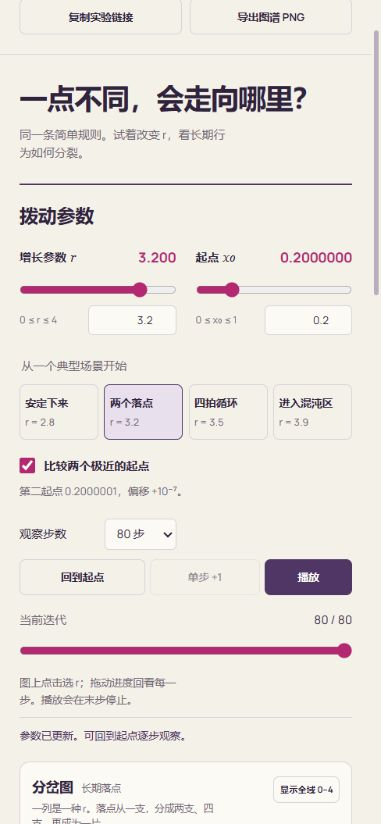
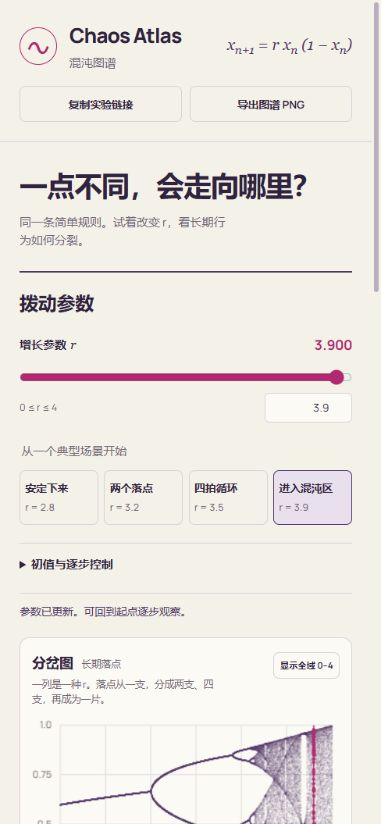
docs: show compact mobile controls and current preview

diff --git a/README.md b/README.md
@@ -75,3 +75,5 @@ tests/browser/              桌面/移动交互回归
 ```
 
 MIT 许可证。界面字形使用自托管 Manrope（SIL Open Font License），中文使用系统字体；字体分发许可证随站点发布，见 [public/manrope-license.txt](public/manrope-license.txt)。
+
+手机上默认保留增长参数与四个预设，把初值、对照与逐步播放收进“初值与逐步控制”，让分岔图更早进入视野；展开后仍是同一组控件。宽屏自动恢复展开布局。
